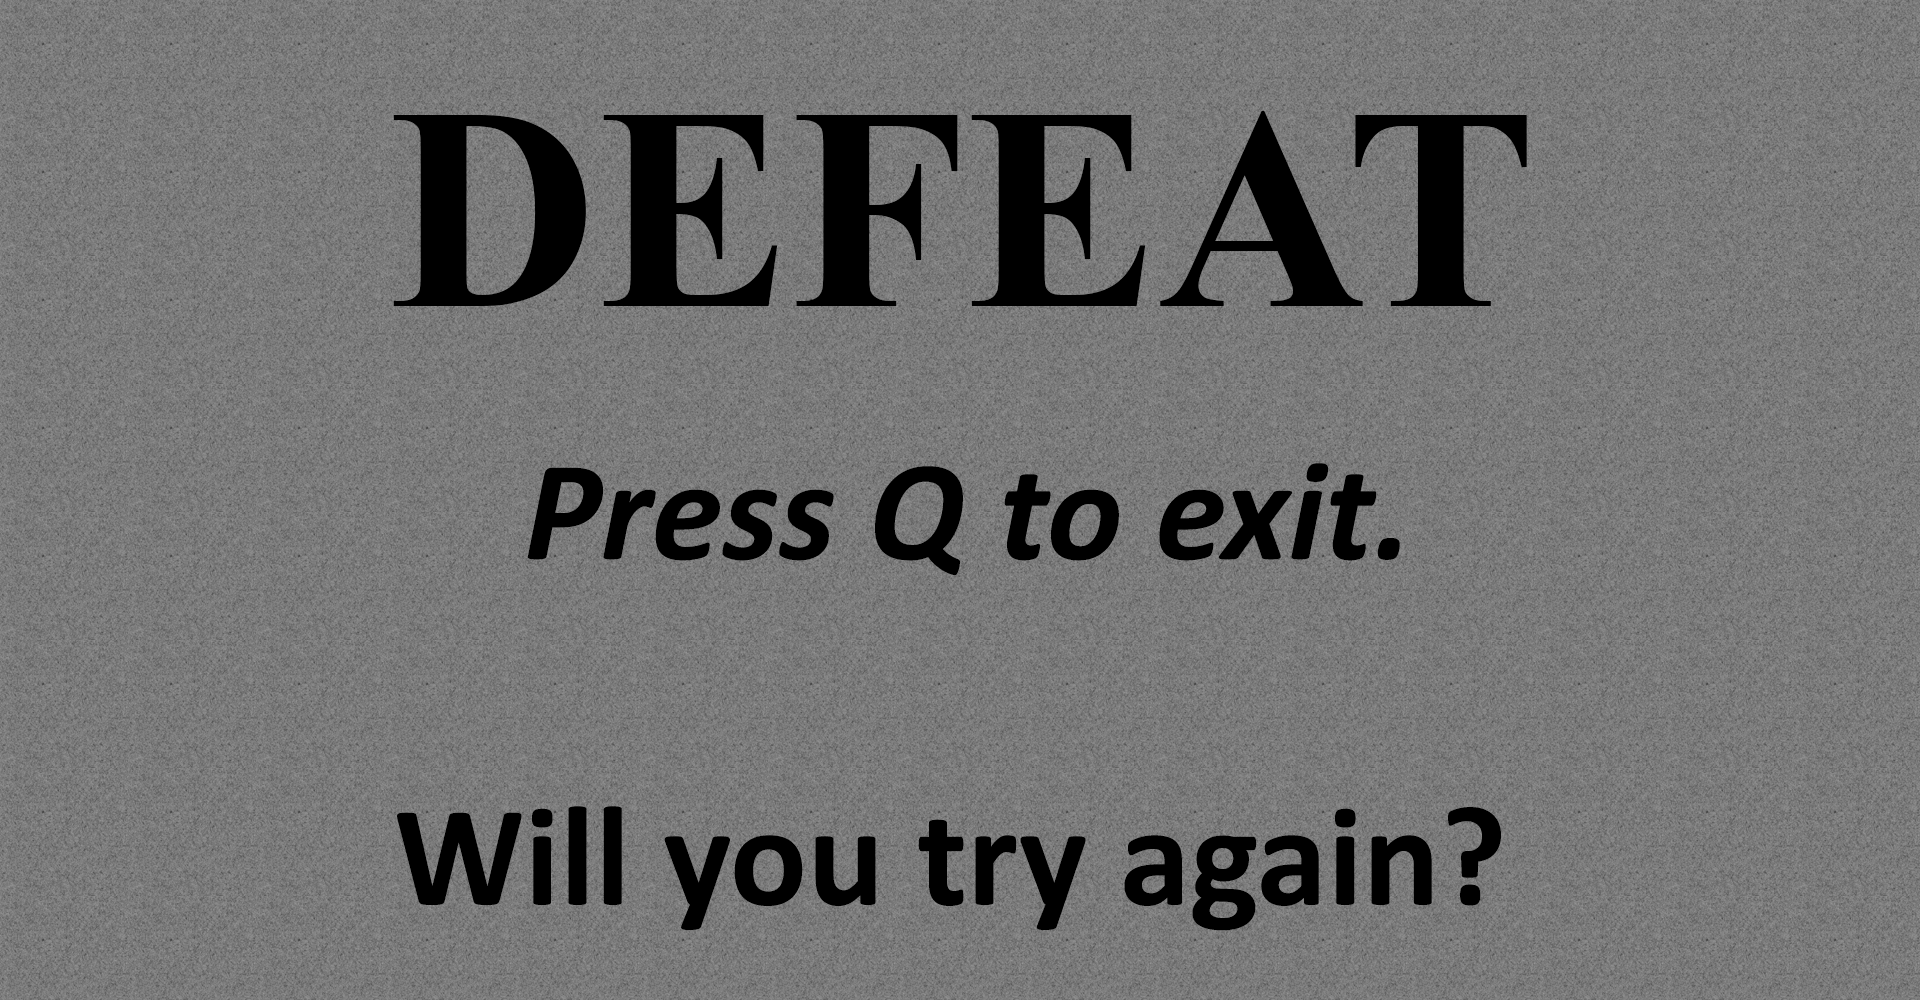
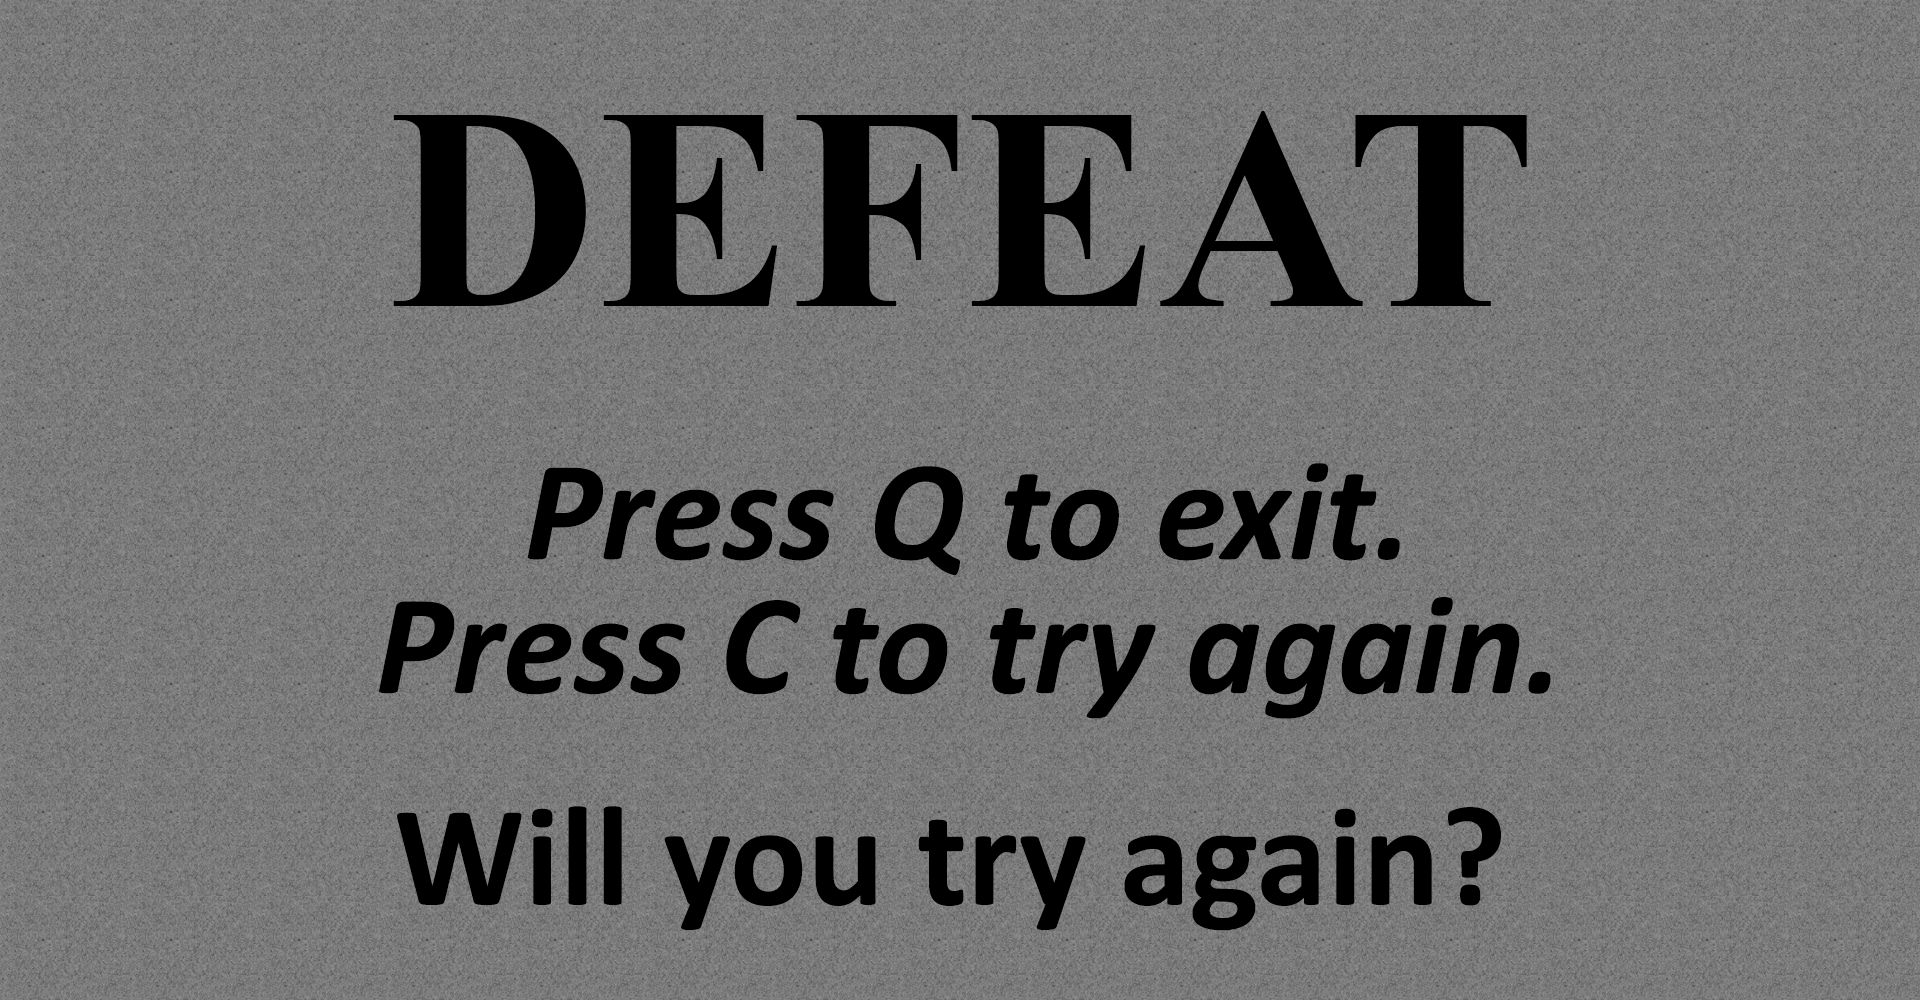
Version 8

Changed region(s): [[0.1875, 0.589, 0.8125, 0.744]]

diff --git a/java programma/src/Main.java b/java programma/src/Main.java
@@ -26,7 +26,7 @@ public class Main extends JFrame implements KeyListener{
 	public boolean isRunning = true;
 	private long rest = 0;
 	private boolean continueOn=false;
-	//private boolean isPaused=false;
+	
 
 	//timing variables
 	public float dt;
@@ -50,11 +50,13 @@ public class Main extends JFrame implements KeyListener{
 	//cloud variables
 	private int cloudx = 0;
 	//private int cloudy;
+	
 	//castle variables
 	private int castlex = 0;
 	private int castley;
 	private int stageNumber = 0;
 	private boolean enteringStage = true;
+	
 	//textures and fonts are now at TextureSource
 
 	//Initialise objects
@@ -63,14 +65,14 @@ public class Main extends JFrame implements KeyListener{
 	private Projectile friendlyProjectile = new Projectile();
 	private Projectile enemyProjectile = new Projectile();
 	private TextureSource textures = new TextureSource();
-	//TODO: Add buffered image arrays here for simplicity
-	//Will be implemented in TextureSource
+	
 	private enum Gamestate {
 		INTRODUCTION,PLAYING,PAUSED,DEFEAT,VICTORY
 	}
 	private Gamestate currentGameState = Gamestate.INTRODUCTION;
+	
 	public Main(int width, int height, int fps){
-		super("shoot'em v8");
+		super("shoot'em v9");
 		this.MAX_FPS = fps;
 		this.WIDTH = width;
 		this.HEIGHT = height;
@@ -137,23 +139,27 @@ public class Main extends JFrame implements KeyListener{
 			enemy.x=friendly.barrierLeft;
 		}
 		if(isFighting() && enemy.accessible){
+			if(enemy.x - friendly.x > 0)
+				enemy.side = false;
+			else
+				enemy.side=true;
 			if(attackRandom.nextInt(400) == 5){
 				if(((System.currentTimeMillis()-enemy.jumpTime) > enemy.getJumpDelay()) && (!enemy.jumping) || (enemy.jumpTime == 0)){
 					enemy.jumping=true;
 					enemy.jumpTime=System.currentTimeMillis();
 				}
 			}
-			if(attackRandom.nextInt(10) == 4){
+			if(attackRandom.nextInt(10) == 4 && !enemy.side){
 				enemy.x-=20;
 			}
-			if(attackRandom.nextInt(200) == 3){
+			if(attackRandom.nextInt(10) == 3 && enemy.side){
 				enemy.x+=20;
 			}
 			if(Math.abs(friendly.y-enemy.y) < 201){
 				if(attackRandom.nextInt(50) == 2){
 					if(!enemy.attacking){
 						enemy.attacking=true;
-						enemyProjectile.calibrateTo(enemy.x+enemy.width/2,enemy.y+enemy.height/2);
+						enemyProjectile.calibrateTo(enemy.x+enemy.width/2,enemy.y+enemy.height/2+50);
 						enemyProjectile.launch(enemy.side);
 					}
 				}
@@ -188,9 +194,11 @@ public class Main extends JFrame implements KeyListener{
 		while(xcollide && ycollide){
 			xcollide=false;
 			ycollide=false;
-			if(Math.abs(friendlyProjectile.x - enemy.x) < enemy.width)
+			//if(Math.abs(friendlyProjectile.x - enemy.x) < enemy.width+1 && friendlyProjectile.x > enemy.x)
+			if(enemy.x+enemy.width > friendlyProjectile.x && enemy.x < friendlyProjectile.x)
 				xcollide=true;
-			if(Math.abs(friendlyProjectile.y - enemy.y) < enemy.height)
+			//if(Math.abs(friendlyProjectile.y - enemy.y) < enemy.height+1 && friendlyProjectile.y < enemy.y)
+			if(enemy.y+enemy.height > friendlyProjectile.y && enemy.y < friendlyProjectile.y)
 				ycollide=true;
 			if(xcollide && ycollide){
 				enemy.y-=enemy.height;
@@ -202,13 +210,15 @@ public class Main extends JFrame implements KeyListener{
 		while(xcollide && ycollide){
 			xcollide=false;
 			ycollide=false;
-			if(Math.abs(enemyProjectile.x - friendly.x) < friendly.width)
+			//if(Math.abs(enemyProjectile.x - friendly.x) < friendly.width+1 && enemyProjectile.x > friendly.x)
+			if(friendly.x+friendly.width > enemyProjectile.x && friendly.x < enemyProjectile.x)
 				xcollide=true;
-			if(Math.abs(enemyProjectile.y - friendly.y) < friendly.height)
+			//if(Math.abs(enemyProjectile.y - friendly.y) < friendly.height+1 && enemyProjectile.y < friendly.y)
+			if(friendly.y+friendly.height > enemyProjectile.y && friendly.y < enemyProjectile.y)
 				ycollide=true;
 			if(xcollide && ycollide){
 				friendly.y-=2*friendly.height;
-				friendly.health-=2;
+				friendly.health-=4;
 			}
 		}
 	}
@@ -218,9 +228,10 @@ public class Main extends JFrame implements KeyListener{
 		while(xcollide && ycollide){
 			xcollide=false;
 			ycollide=false;
-			if(Math.abs(friendly.x - enemy.x) < enemy.width)
+			//if(friendly.x+friendly.width > enemy.x && friendly.x < enemy.x)
+			if(enemy.x+enemy.width > friendly.x && enemy.x < friendly.x)
 				xcollide=true;
-			if(Math.abs(friendly.y - enemy.y) < enemy.height)
+			if(enemy.y+enemy.height > friendly.y && enemy.y < friendly.y)
 				ycollide=true;
 			//System.out.println(Math.abs(friendly.y - enemy.y));
 			//System.out.println(Math.abs(friendly.x - enemy.x));
@@ -368,7 +379,7 @@ public class Main extends JFrame implements KeyListener{
 		Graphics2D g = (Graphics2D) strategy.getDrawGraphics();
 		if(currentGameState == Gamestate.DEFEAT){
 			g.drawImage(textures.defeat,null,0,0);
-			isRunning=false;
+			//isRunning=false;
 			sleep(100);
 		}
 		if(currentGameState == Gamestate.VICTORY){
@@ -393,10 +404,33 @@ public class Main extends JFrame implements KeyListener{
 			enemyDefeated=true;
 		}
 		if(currentGameState == Gamestate.DEFEAT){
-			while(true){
-				sleep(100);
+			continueOn=false;
+			while(!continueOn){
+				sleep(10);
 				handleSmoothKeys();
 			}
+
+			friendly.health = friendly.maxHealth;
+			friendly.x=friendly.barrierLeft;
+			friendly.y=HEIGHT - friendly.height;
+			friendly.setVariant(0);
+			friendlyProjectile.calibrateTo(0, 0);
+			friendlyProjectile.launched=false;
+			friendly.side=true;
+			friendly.direction=true;
+
+			enemy.side=false;
+			enemy.direction=false;
+			enemy.setVariant(-1);
+			enemy.health=enemy.defaultFullHealth;
+			enemyDefeated=false;
+			enemy.fullHealth=enemy.defaultFullHealth;
+			enemyProjectile.calibrateTo(0, 0);
+			enemyProjectile.launched=false;
+
+			enteringStage=true;
+			stageNumber=0;
+			currentGameState = Gamestate.PLAYING;
 		}
 	}
 	private void sleep(int time){
@@ -448,6 +482,7 @@ public class Main extends JFrame implements KeyListener{
 						}
 						break;
 						//Debug code for moving enemy
+						/*
 					case KeyEvent.VK_J:
 						enemy.x-=enemy.width/20;
 						if(enemy.direction){
@@ -462,11 +497,6 @@ public class Main extends JFrame implements KeyListener{
 							enemy.direction=!enemy.direction;
 						}
 						break;
-						/*
-				case KeyEvent.VK_K:
-					enemy.y+=20;
-					break;
-						 */
 					case KeyEvent.VK_I:
 						//enemy.y-=enemy.height/10;
 						if(((System.currentTimeMillis()-enemy.jumpTime) > enemy.getJumpDelay()) && (!enemy.jumping) || (enemy.jumpTime == 0)){
@@ -477,10 +507,11 @@ public class Main extends JFrame implements KeyListener{
 					case KeyEvent.VK_SEMICOLON:
 						if(!enemy.attacking){
 							enemy.attacking=true;
-							enemyProjectile.calibrateTo(enemy.x+enemy.width/2,enemy.y+enemy.height/2);
+							enemyProjectile.calibrateTo(enemy.x+enemy.width/2,enemy.y+enemy.height/2+50);
 							enemyProjectile.launch(enemy.side);
 						}
 						break;
+						 */
 					}
 				}
 				if(keys.get(i) == KeyEvent.VK_C)

diff --git a/java programma/src/Friendly.java b/java programma/src/Friendly.java
@@ -5,7 +5,6 @@ public class Friendly {
 	boolean side=true;
 	boolean direction=true;
 	boolean  attacking=false;
-	private String texture="friendly";
 	int variant=0;
 	int barrierLeft;
 	int barrierRight;
@@ -15,6 +14,7 @@ public class Friendly {
 	int width=350;
 	int height=500;
 	int health=10;
+	int maxHealth=10;
 	boolean jumping;
 	long jumpTime = 0;
 	public Friendly(int width, int height){
@@ -28,12 +28,6 @@ public class Friendly {
 		this.width=width;
 		this.height=height;
 		y= screenHeight - this.height;
-	}
-	public String getTexture(){
-		return "resources/"+texture+variant+".png_"+side;
-	}
-	public void setTexture(String texture){
-		this.texture = texture;
 	}
 	public void setVariant(int variant){
 		this.variant = variant;

diff --git a/java programma/src/Enemy.java b/java programma/src/Enemy.java
@@ -17,6 +17,7 @@ public class Enemy {
     int barrierRight;
     int health=5;
     int fullHealth=health;
+    int defaultFullHealth=health;
 	int variant=-1;
 	public Enemy(int width, int height){
 		screenWidth=width;
